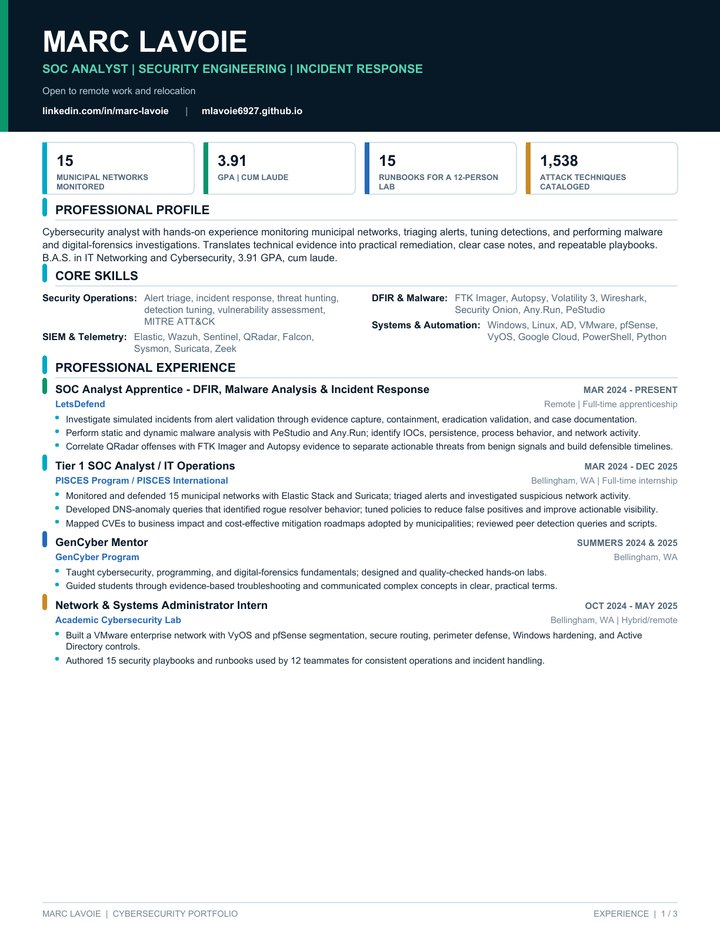
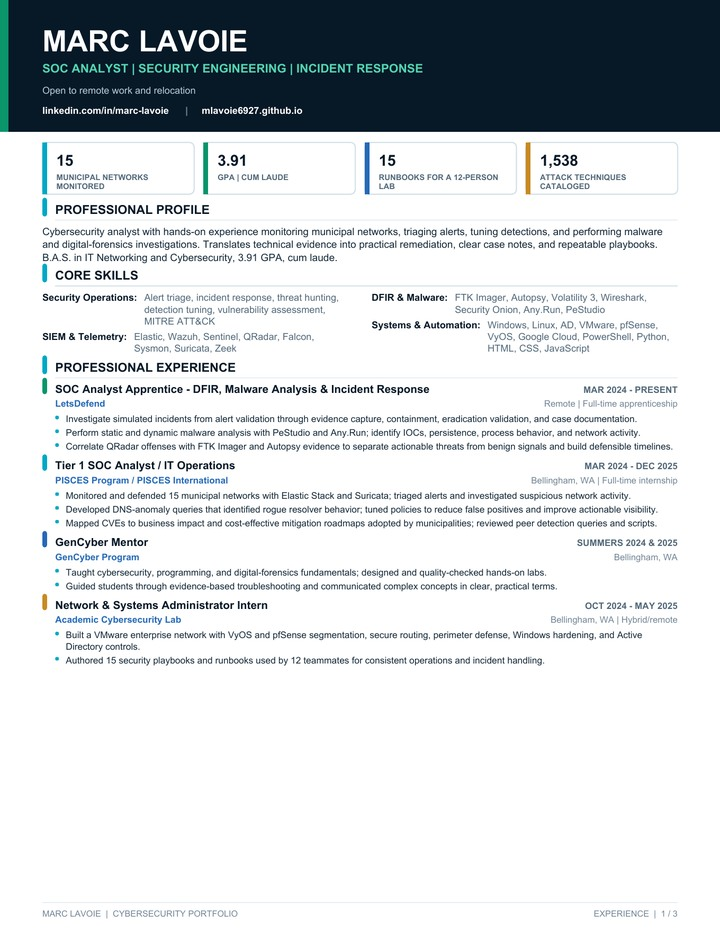
Update resume with latest public projects

diff --git a/index.html b/index.html
@@ -3685,13 +3685,13 @@
             <span class="project-kicker">Recruiter Edition | 3 Pages</span>
             <h3>Marc Lavoie Cybersecurity Resume</h3>
             <p>
-              A recruiter-focused resume covering security operations, incident response, network engineering, security-platform architecture, and the complete public project portfolio.
+              A recruiter-focused resume covering security operations, incident response, network engineering, security-platform architecture, and a current recruiter-curated project index.
             </p>
 
             <ul class="resume-highlights" aria-label="Resume highlights">
               <li>15 municipal networks monitored and defended</li>
               <li>B.A.S. in IT Networking and Cybersecurity, 3.91 GPA, cum laude</li>
-              <li>Featured engineering work plus a complete project index</li>
+              <li>Featured engineering work plus a recruiter-curated project index</li>
               <li>Current portfolio address: mlavoie6927.github.io</li>
             </ul>
 
